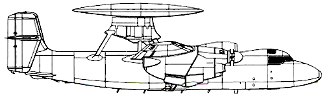
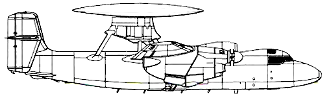
hawkeye radar rotation

Changed region(s): [[0.216, 0.0312, 0.6173, 0.1562]]

diff --git a/shilka2/Aircrafts.cs b/shilka2/Aircrafts.cs
@@ -304,7 +304,16 @@ namespace shilka2
                         x_left = 75,
                         x_right = 225,
                         movingType = DynamicElement.MovingType.yRotate
-                    }
+                    },
+                    new DynamicElement {
+                        elementName = "hawkeyerls",
+                        y = 4,
+                        x_left = 118,
+                        x_right = 70,
+                        movingType = DynamicElement.MovingType.xRotate,
+                        slowRotation = true,
+                        backSide = true,
+                    },
                 }
             },
 

diff --git a/shilka2/Aircraft.cs b/shilka2/Aircraft.cs
@@ -181,8 +181,6 @@ namespace shilka2
 
                             if (d.rotateDegreeCurrent < Constants.FAST_ROTATION)
                             {
-                                //d.rotateDegreeCurrent = 1;
-
                                 if (d.backSide && d.currentSide)
                                     d.element.Source = ImageFromResources(d.elementName);
                                 else if (d.backSide)
